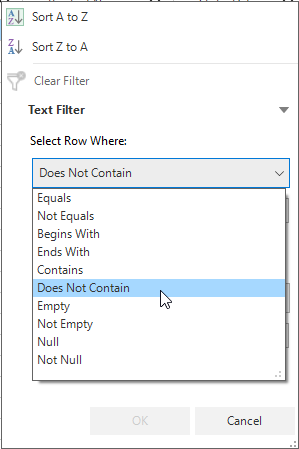
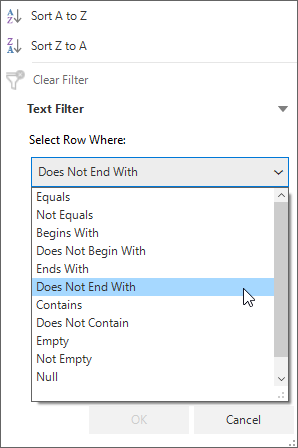
WPF-49833 - Update UG for include "NotBeginWith and NotEndsWith" option in filter

diff --git a/WindowsForms/SfDataGrid/Filtering.md b/WindowsForms/SfDataGrid/Filtering.md
@@ -407,7 +407,9 @@ When the DateTime type value is bound to the GridColumn, then `Date Filter` is l
 <li>Equals</li>
 <li>Not Equal</li>
 <li>Begins With</li>
+<li>Does Not Begin With</li>
 <li>Ends With</li>
+<li>Does Not End With</li>
 <li>Contains</li>
 <li>Does Not Contain</li>
 <li>Empty</li>

diff --git a/WindowsForms/SfDataGrid/FilterRow.md b/WindowsForms/SfDataGrid/FilterRow.md
@@ -246,7 +246,9 @@ The default filter condition is Begins With. Following filter conditions are ava
 <li>Null</li>
 <li>Not Null</li>
 <li>Begins With</li>
+<li>Does Not Begin With</li>
 <li>Ends With</li>
+<li>Does Not End With</li>
 <li>Contains</li>
 <li>Does Not Contain</li>
 <li>Empty</li>
